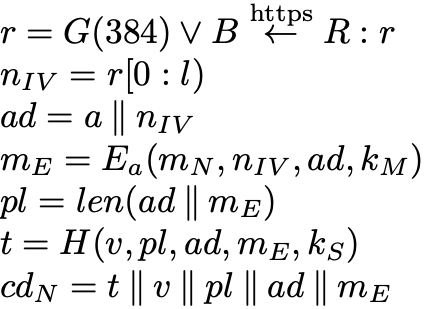
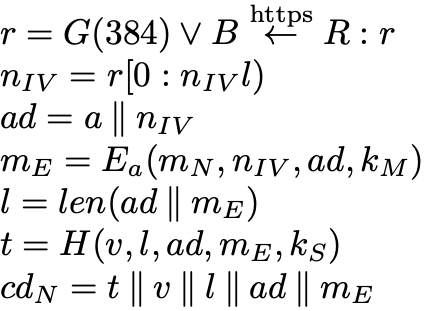
updated protocol info

diff --git a/src/assets-src/main.tex b/src/assets-src/main.tex
@@ -22,7 +22,7 @@ $D$ & \textrm{ - Insecure persistent storage system} \\
       
 \hfill \break
 
-% Changed: cipher variables, 
+% Changed: cipher variables, functions, decrypt by a, block n by B
 
 \underline{Browser and Libsodium Functions}\\
 
@@ -31,10 +31,10 @@ $E_a$ & \textrm{ - Symmetric cipher using AEAD algorithm }$a$\textrm{. One of:}\
 & \hspace{23pt}\textrm{1. AES-256 in Galois/Counter mode from SubtleCrypto} \\
 & \hspace{23pt}\textrm{2. XChaCha20 with Poly1305 MAC from libsodium} \\
 & \hspace{23pt}\textrm{3. AEGIS 256 from libsodium} \\
-$D_H$ & \textrm{ - HKDF key derivation using SHA-512 from SubtleCrypto} \\
-$D_P$ & \textrm{ - PBKDF2 key derivation using SHA-512 from SubtleCrypto} \\
-$H$ & \textrm{ - BLAKE2b MAC generator from libsodium} \\
-$V$ & \textrm{ - BLAKE2b MAC validator from libsodium} \\
+$D_H$ & \textrm{ - HKDF key derivation using SHA-512 FIPS-180-4 from SubtleCrypto} \\
+$D_P$ & \textrm{ - PBKDF2 key derivation using SHA-512 FIPS-180-4 from SubtleCrypto} \\
+$H$ & \textrm{ - BLAKE2b keyed hash (MAC) generator from libsodium} \\
+$V$ & \textrm{ - BLAKE2b keyed hash (MAC) validator from libsodium} \\
 $G$ & \textrm{ - Cryptographic pseudorandom generator from SubtleCrypto} \\
 \end{tabular}
 
@@ -47,6 +47,7 @@ $N$ & \textrm{ - Block number}\\
 $m$ & \textrm{ - Clear text message}\\
 $m_0$ & \textrm{ - Clear text block 0}\\
 $m_N$ & \textrm{ - Clear text block N}\\
+$m_{E}$ & \textrm{ - Block of encrypted message}\\
 $p$ & \textrm{ - Password text}\\
 $h$ & \textrm{ - Password hint text}\\
 $u_c$ & \textrm{ - 256 bit user credential}\\
@@ -55,10 +56,11 @@ $i$ & \textrm{ - PBKDF2 iteration count, minimum 400,000}\\
 $k_M$ & \textrm{ - 256 bit message cipher key}\\
 $k_H$ & \textrm{ - 256 bit hint cipher key}\\
 $k_S$ & \textrm{ - 256 bit MAC key}\\
-$kp$ & \textrm{ - Key purpose text}\\
+$kp_S$ & \textrm{ - Key purpose text: ``cipherdata signing key''}\\
+$kp_H$ & \textrm{ - Key purpose text: ``hint encryption key''}\\
 $r$ & \textrm{ - 384 bits of either true or pseudo random data}\\
-$l$ & \textrm{ - }$n_{IV}$\textrm{ bit length: [96, 192, 256]}\\
 $n_{IV}$ & \textrm{ - True or pseudo random initialization vector}\\
+$n_{IV}l$ & \textrm{ - }$n_{IV}$\textrm{ bit length: [96, 192, 256]}\\
 $n_S$ & \textrm{ - 128 bit true or pseudo random salt}\\
 $lp$ & \textrm{ - Loop count (0-15)}\\
 $le$ & \textrm{ - Loop end (0-15)}\\
@@ -66,14 +68,13 @@ $ad$ & \textrm{ - Additional data}\\
 $v$ & \textrm{ - Cipher data version}\\
 $h_E$ & \textrm{ - Encrypted hint}\\
 $h_El$ & \textrm{ - Encrypted hint length}\\
-$m_E$ & \textrm{ - Encrypted message}\\
 $t$ & \textrm{ - 256 bit MAC tag}\\
-$pl$ & \textrm{ - Payload length}\\
+$l$ & \textrm{ - Payload length}\\
+$b$ & \textrm{ - Valid or invalid MAC tag}\\
+$cd$ & \textrm{ - Cipher data}\\
 $cd_0$ & \textrm{ - Cipher data block 0}\\
 $cd_N$ & \textrm{ - Cipher data block N}\\
-$cd$ & \textrm{ - Cipher data}\\
-$b$ & \textrm{ - Valid or invalid MAC tag}\\
-$err$ & \textrm{ - Error message}\\
+$err$ & \textrm{ - Error message and exit}\\
 \end{tabular}
 
 \newpage
@@ -84,15 +85,15 @@ $err$ & \textrm{ - Error message}\\
 \multicolumn{2}{@{}l}{$A\overset{\textrm{webauthn}}{\leftrightarrow} B,M \overset{\textrm{webauthn}}{\leftrightarrow} S$}\\
 \multicolumn{2}{@{}l}{$B\leftarrow S: u_c$}\\
 \multicolumn{2}{@{}l}{$A\rightarrow B: m,i,a,le$}\\
+\multicolumn{2}{@{}l}{$v = 4$}\\
 \multicolumn{2}{@{}l}{$lp = 0$}\\
 \multicolumn{2}{@{}l}{$LOOP: B\textrm{ compute} $}\\
 &$A\rightarrow B: p,h $\\
-&$v = 4$\\
 &$r = G(384)\lor B\overset{\textrm{https}}{\leftarrow} R: r$\\
 &$n_S = r[0:128)$\\
-&$n_{IV} = r[128:128+l)$\\
+&$n_{IV} = r[128:128+n_{IV}l)$\\
 &$k_M = D_P(p \mathbin\Vert u_c,n_S,i)$\\
-&$k_S = D_H(u_c,n_S,kp_S = \textrm{``cipherdata signing key''})$\\
+&$k_S = D_H(u_c,n_S,kp_S)$\\
 &$cd = cd_0\mathbin\Vert  cd_N\mathbin\Vert ...$\\
 &$m = cd$\\
 &$lp = lp + 1$\\
@@ -105,14 +106,14 @@ $err$ & \textrm{ - Error message}\\
 \underline{Block 0 Encryption by B}\\
 
 \begin{tabular}{@{}p{2mm} l}
-\multicolumn{2}{@{}l}{$k_H = D_H(u_c,n_S,kp_H = \textrm{``hint encryption key''})$}\\
+\multicolumn{2}{@{}l}{$k_H = D_H(u_c,n_S,kp_H)$}\\
 \multicolumn{2}{@{}l}{$h_E = E_a(h,n_{IV},k_H)$}\\
 \multicolumn{2}{@{}l}{$h_El = len(h_E)$}\\
 \multicolumn{2}{@{}l}{$ad = a \mathbin\Vert n_{IV} \mathbin\Vert n_S \mathbin\Vert i\mathbin\Vert le \mathbin\Vert lp \mathbin\Vert h_El \mathbin\Vert h_E$}\\
-\multicolumn{2}{@{}l}{$m_E = E_a(m_0,n_{IV},ad,k_M)$}\\
-\multicolumn{2}{@{}l}{$pl = len(ad \mathbin\Vert m_E)$}\\
-\multicolumn{2}{@{}l}{$t = H(v, pl, ad, m_E, k_S)$}\\
-\multicolumn{2}{@{}l}{$cd_0 = t\mathbin\Vert v\mathbin\Vert pl\mathbin\Vert ad \mathbin\Vert m_E$}\\
+\multicolumn{2}{@{}l}{$m_{E} = E_a(m_0,n_{IV},ad,k_M)$}\\
+\multicolumn{2}{@{}l}{$l = len(ad \mathbin\Vert m_{E})$}\\
+\multicolumn{2}{@{}l}{$t = H(v, l, ad, m_{E}, k_S)$}\\
+\multicolumn{2}{@{}l}{$cd_0 = t\mathbin\Vert v\mathbin\Vert l\mathbin\Vert ad \mathbin\Vert m_{E}$}\\
 \end{tabular}
 
 \hfill \break
@@ -121,14 +122,14 @@ $err$ & \textrm{ - Error message}\\
 
 \begin{tabular}{@{}p{2mm} l}
 \multicolumn{2}{@{}l}{$r = G(384)\lor B\overset{\textrm{https}}{\leftarrow} R: r$}\\
-\multicolumn{2}{@{}l}{$n_{IV} = r[0:l)$}\\
+\multicolumn{2}{@{}l}{$n_{IV} = r[0:n_{IV}l)$}\\
 \multicolumn{2}{@{}l}{$ad = a \mathbin\Vert n_{IV}$}\\
-\multicolumn{2}{@{}l}{$m_E = E_a(m_N,n_{IV},ad,k_M)$}\\
+\multicolumn{2}{@{}l}{$m_{E} = E_a(m_N,n_{IV},ad,k_M)$}\\
 
-\multicolumn{2}{@{}l}{$pl = len(ad \mathbin\Vert m_E)$}\\
-\multicolumn{2}{@{}l}{$t = H(v, pl, ad, m_E, k_S)$}\\
-\multicolumn{2}{@{}l}{$cd_N = t\mathbin\Vert v\mathbin\Vert pl\mathbin\Vert 
-ad \mathbin\Vert m_E$}\\
+\multicolumn{2}{@{}l}{$l = len(ad \mathbin\Vert m_{E})$}\\
+\multicolumn{2}{@{}l}{$t = H(v, l, ad, m_{E}, k_S)$}\\
+\multicolumn{2}{@{}l}{$cd_N = t\mathbin\Vert v\mathbin\Vert l\mathbin\Vert 
+ad \mathbin\Vert m_{E}$}\\
 \end{tabular}
 
 \hfill \break
@@ -150,13 +151,13 @@ ad \mathbin\Vert m_E$}\\
 \multicolumn{2}{@{}l}{$A \rightarrow B: cd$}\\
 \multicolumn{2}{@{}l}{$lp = 0$}\\
 \multicolumn{2}{@{}l}{$LOOP: B\textrm{ compute} $}\\
-&$t,v,pl,ad,m_E=cd_0$\\
+&$t,v,l,ad,m_{E}=cd_0$\\
 &$a,n_{IV},n_S,i,le,lp,h_El,h_E=ad$\\
-&$k_S = D_H(u_c,n_S,kp_S=\textrm{``cipherdata signing key''})$\\
-&$b = V(v, pl, ad, m_E , k_S, t)$\\
+&$k_S = D_H(u_c,n_S,kp_S)$\\
+&$b = V(v, l, ad, m_{E} , k_S, t)$\\
 &$\textrm{if }!b:$\\
 &\hspace{15pt}$A \leftarrow B: err$\\
-&$k_H = D_H(u_c,n_S,kp_H=\textrm{``hint encryption key''})$\\
+&$k_H = D_H(u_c,n_S,kp_H)$\\
 &$h = E_a^{-1}(h_E,n_{IV},k_H)$\\
 &$B \rightarrow A: h$\\
 &$B \leftarrow A: p$\\
@@ -175,7 +176,7 @@ ad \mathbin\Vert m_E$}\\
 \underline{Block 0 Decryption by B}\\
 
 \begin{tabular}{@{}p{2mm} l}
-\multicolumn{2}{@{}l}{$m_o = E_a^{-1}(m_E, n_{IV},ad,k_M)$}\\
+\multicolumn{2}{@{}l}{$m_o = E_a^{-1}(m_{E}, n_{IV},ad,k_M)$}\\
 \end{tabular}
 
 \hfill \break
@@ -183,12 +184,12 @@ ad \mathbin\Vert m_E$}\\
 \underline{Block N Decryption by B}\\
 
 \begin{tabular}{@{}p{2mm} l}
-\multicolumn{2}{@{}l}{$t,v,pl,ad,m_E=cd_N$}\\
+\multicolumn{2}{@{}l}{$t,v,l,ad,m_{E}=cd_N$}\\
 \multicolumn{2}{@{}l}{$a,n_{IV}=ad$}\\
-\multicolumn{2}{@{}l}{$b = V(v, pl, ad, m_E, k_S, t)$}\\
+\multicolumn{2}{@{}l}{$b = V(v, l, ad, m_{E}, k_S, t)$}\\
 \multicolumn{2}{@{}l}{$\textrm{if }!b:$}\\
 \multicolumn{2}{@{}l}{\hspace{15pt}$A \leftarrow B: err$}\\
-\multicolumn{2}{@{}l}{$m_N = E_a^{-1}(m_E, n_{IV},ad,k_M)$}\\
+\multicolumn{2}{@{}l}{$m_N = E_a^{-1}(m_{E}, n_{IV},ad,k_M)$}\\
 \end{tabular}
 
 \newpage
